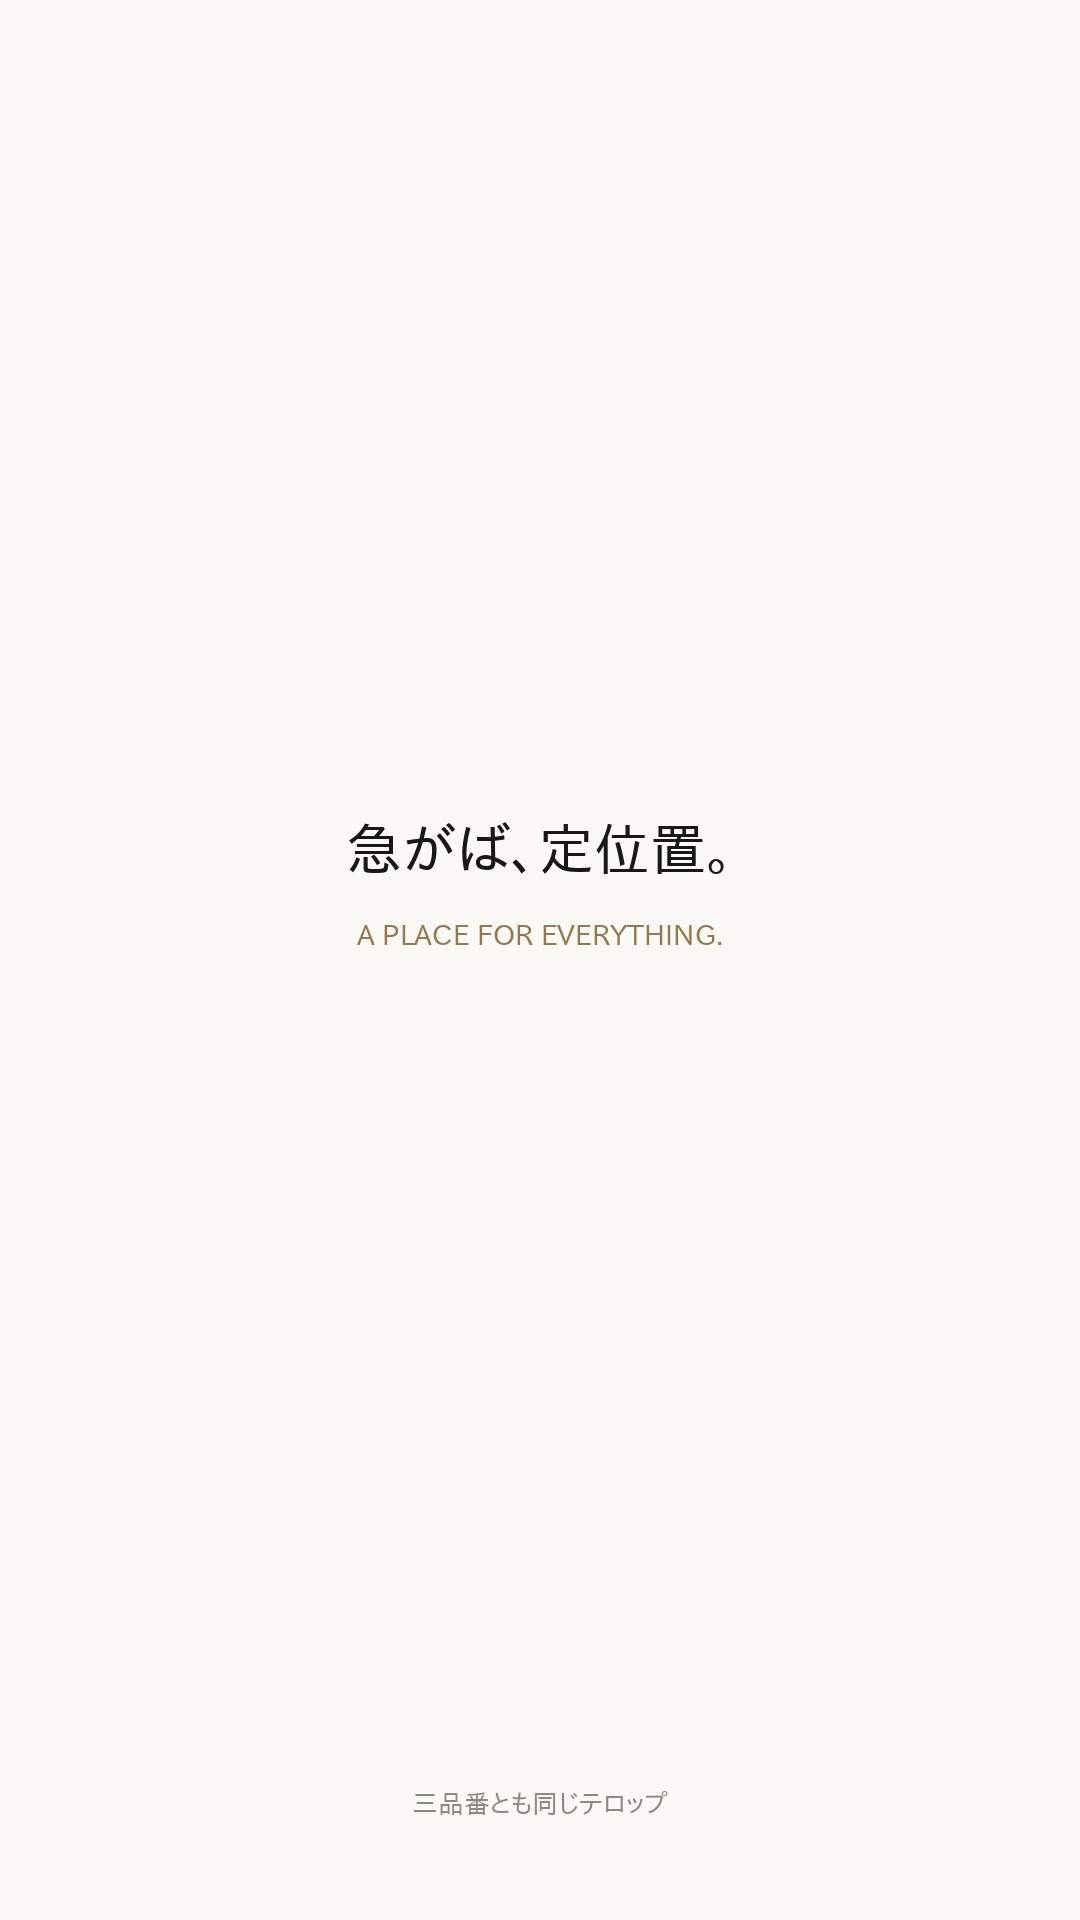
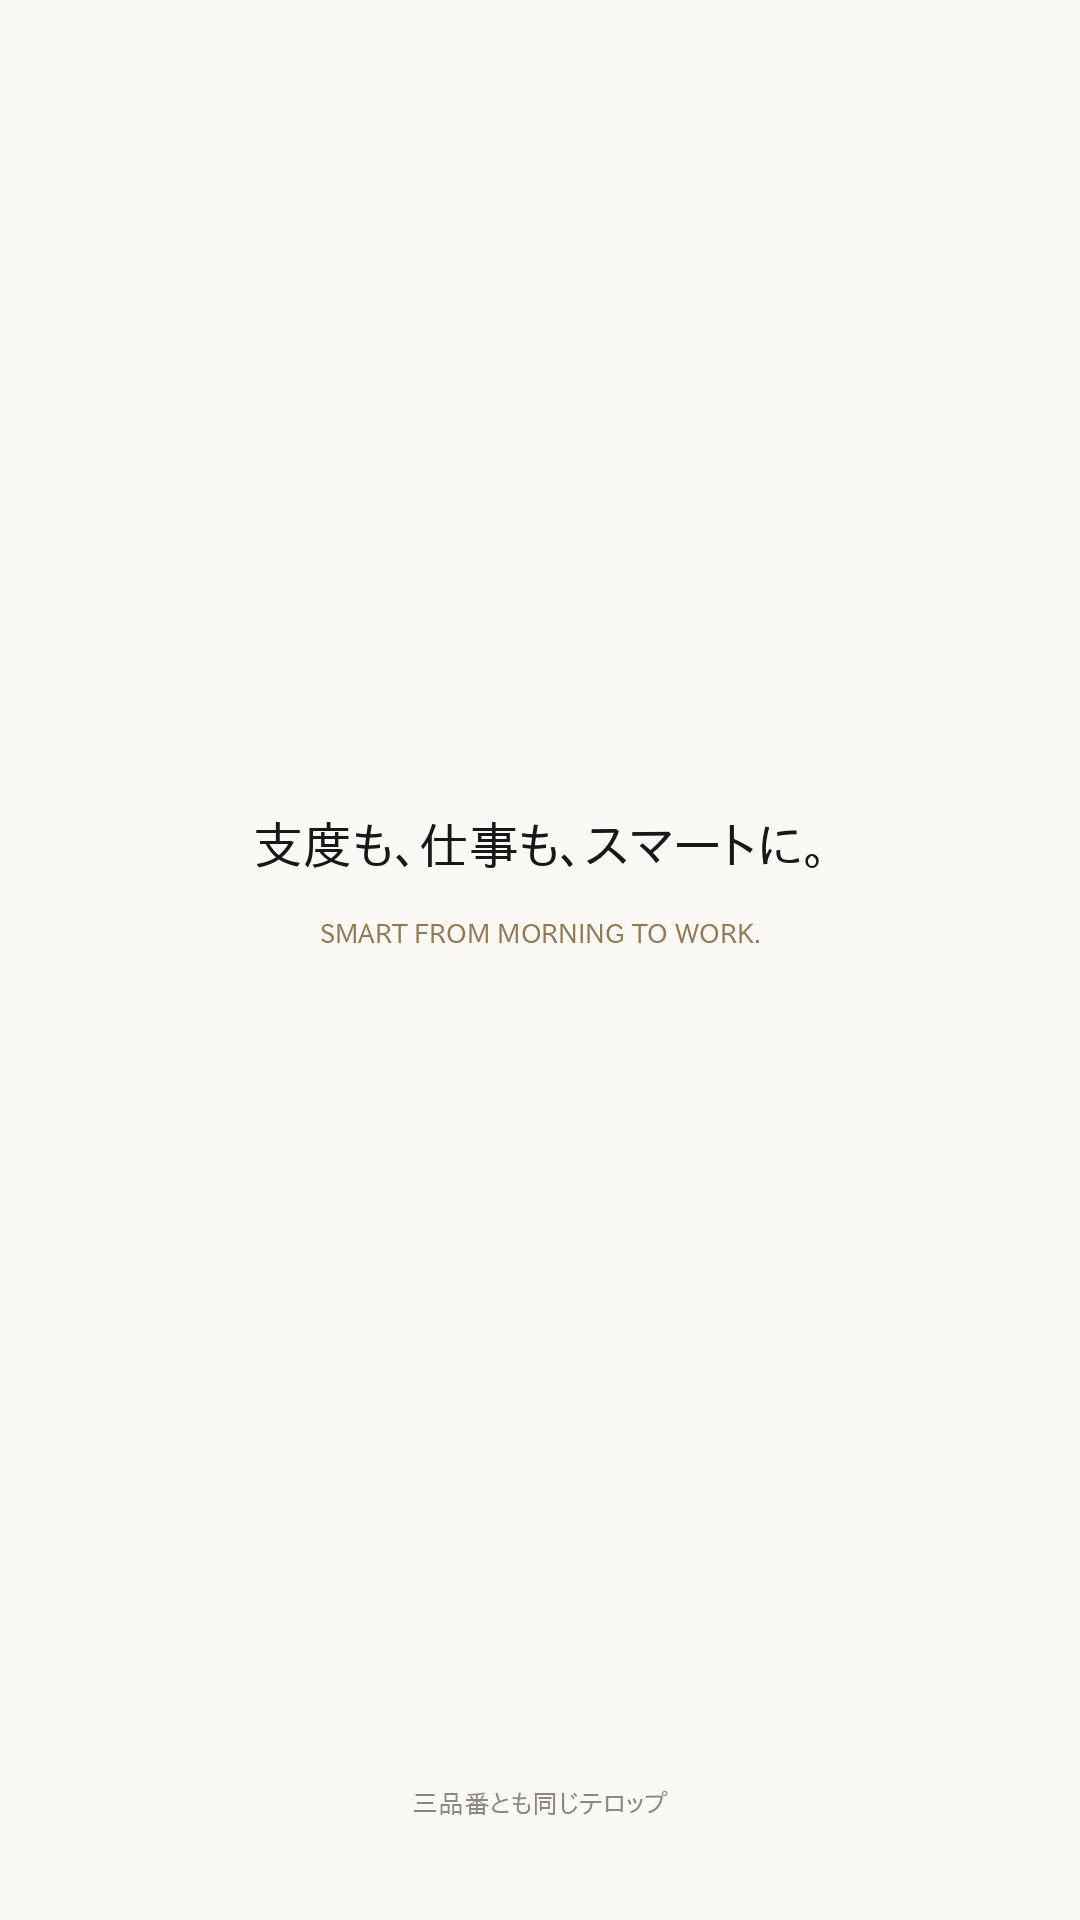
⑦のタイトルを「支度も、仕事も、スマートに。」に確定する
・目次・本文・締めのテロップを差し替え。英語は Smart from Morning to Work
・テロップのカード画像も作り直した
・これで8本すべてのタイトルが確定

Claude-Session: https://claude.ai/code/session_01WExUic6FKpEPScTy7HvD5X

Changed region(s): [[0.2444, 0.4062, 0.7333, 0.5]]

diff --git a/pdf/kakutei.html b/pdf/kakutei.html
@@ -100,7 +100,7 @@ table.grid .cap b { border-bottom:1.2px solid #e0c9a4; }
 <tr><td class="n">4</td><td class="ti"><b>持ち歩くものが、その人をつくる。</b><br><span>What You Carry Makes You</span></td><td class="ln">30秒 ×1</td><td class="tg">仕事道具として買う人・贈る人</td><td class="lk"><a href="https://www.instagram.com/reels/DcOkNyyoFFJ/">Link</a>（parisawangny）</td><td class="pg">p.6</td></tr>
 <tr><td class="n">5</td><td class="ti"><b>1979年から、東京で。</b><br><span>Since 1979, Tokyo</span></td><td class="ln">75秒 ×1／60秒短縮版 ×1</td><td class="tg">メディア関係者・OEMの調達担当・新規</td><td class="lk"><a href="https://www.youtube.com/watch?v=4DEy0CAg43s">Link</a>　＋　<a href="https://youtu.be/OU-qyAcn2YM">Link</a>　＋　<a href="https://youtu.be/OPDWrOeD-gU">Link</a>（コーポレートムービー）</td><td class="pg">p.7</td></tr>
 <tr><td class="n">6</td><td class="ti"><b>選ばれる理由。</b><br><span>Why Brands Choose Us</span></td><td class="ln">2分20秒 ×1／無音版 ×1</td><td class="tg">OEMの調達・生産担当</td><td class="lk"><span style="color:#b8ac97">参考動画：未定（工場見学ワンテイク型を推奨）</span></td><td class="pg">p.8</td></tr>
-<tr><td class="n">7</td><td class="ti"><b>急がば、定位置。</b><br><span>A Place for Everything</span></td><td class="ln">25秒 ×3品番</td><td class="tg">新規（買う直前の人）</td><td class="lk"><a href="https://www.instagram.com/reel/DZE-_hZuwXb/">Link</a>　＋　<a href="https://www.instagram.com/reel/DaorwuKvWAj/">Link</a></td><td class="pg">p.9</td></tr>
+<tr><td class="n">7</td><td class="ti"><b>支度も、仕事も、スマートに。</b><br><span>Smart from Morning to Work</span></td><td class="ln">25秒 ×3品番</td><td class="tg">新規（買う直前の人）</td><td class="lk"><a href="https://www.instagram.com/reel/DZE-_hZuwXb/">Link</a>　＋　<a href="https://www.instagram.com/reel/DaorwuKvWAj/">Link</a></td><td class="pg">p.9</td></tr>
 <tr><td class="n">8</td><td class="ti"><b>購入者インタビュー（仮タイトル）</b><br><span>Customer Interview (Title TBD)</span></td><td class="ln">60秒 ×1（仮）</td><td class="tg">購入を迷っている新規</td><td class="lk">店舗紹介インタビュー（lit DINNING BAR &amp; CAFE）　＋　撮り方の解説動画</td><td class="pg">p.10</td></tr>
   </table>
   <div class="foot">BROOKLYN MUSEUM ／ 向島工房　動画制作</div>
@@ -266,14 +266,14 @@ table.grid .cap b { border-bottom:1.2px solid #e0c9a4; }
 
 <div class="page">
   <div class="vhead">
-    <div class="l"><div class="no">07</div><h2>急がば、定位置。</h2><div class="enh">A Place for Everything</div></div>
+    <div class="l"><div class="no">07</div><h2>支度も、仕事も、スマートに。</h2><div class="enh">Smart from Morning to Work</div></div>
     <div class="r"><b>25秒 ×3品番 ／ 18ショット</b><br>対象＝新規（買う直前の人）　／　EC商品ページ カートボタン直下<br><span class="lk">参考動画＝<a href="https://www.instagram.com/reel/DZE-_hZuwXb/">Link</a>（朝の出発前）　＋　<a href="https://www.instagram.com/reel/DaorwuKvWAj/">Link</a>（ASMR実測）</span></div>
   </div>
   <div class="vbody">
     <div class="col">
       <div class="blk"><span class="lbl">企 画</span>購入転換率が0.263%。前年0.583%から半減している。写真では入る量が伝わらない。<br><br><b>白い台の上、正面固定。カメラは一度も動かさない。</b>三品番を<b>同じ画角・同じ小物</b>で撮るので、並べたときに大きさの差がそのまま分かる。冒頭三秒は<b>モノクロ</b>で入り、引いた瞬間にカラーへ。<br><br><b>秤のカットは使わない。</b>数字を読ませるかわりに、<b>片手で持ち上げる動作</b>で軽さを見せる。数字は小さくテロップで添えるだけ。</div>
       <div class="blk"><span class="lbl">こ の 1 本 で 言 う こ と</span>A4もノートPCも入って、片手で持ち上がる。三品番の大きさの差が、並べれば分かる。</div>
-      <div class="telop"><span class="lbl">テ ロ ッ プ</span><div class="jp">急がば、定位置。</div><div class="en">A PLACE FOR EVERYTHING.</div></div>
+      <div class="telop"><span class="lbl">テ ロ ッ プ</span><div class="jp">支度も、仕事も、スマートに。</div><div class="en">SMART FROM MORNING TO WORK.</div></div>
       <div class="blk"><span class="lbl">小 さ く 添 え る</span>A4・13インチPC対応　／　千百六十グラム　／　返品送料無料<br><span style='color:#8a7a63'>三品番＝ロワイヤルMトート・ベルシートート・Lジップ</span></div>
     </div>
     <table class="grid"><tr><th>シーン</th><th>ショット 1</th><th>ショット 2</th><th>ショット 3</th></tr>
@@ -282,7 +282,7 @@ table.grid .cap b { border-bottom:1.2px solid #e0c9a4; }
 <tr><td class="sc"><b>S3 入れる①</b><br>7-13秒</td><td><img src="../assets/ref4/7_S3_01_PCを入れる.jpg"><div class="cap">A4書類とノートPCを入れる</div></td><td><img src="../assets/ref4/7_S3_02_入りきる.jpg"><div class="cap">入りきる。上端にまだ余りがあるのを見せる</div></td><td><img src="../assets/ref4/7_S3_03_手帳と小物を入れる.jpg"><div class="cap">手帳・鍵・サングラス。<b>顔は入れない</b></div></td></tr>
 <tr><td class="sc"><b>S4 入れる②</b><br>13-17秒</td><td><img src="../assets/ref4/7_S4_01_さらに入れる.jpg"><div class="cap">ペン・小物。入れる音を一つずつ拾う</div></td><td><img src="../assets/ref4/7_S4_02_小物を入れる.jpg"><div class="cap">傘・水筒まで入れる。それでもまだ閉まる</div></td><td><img src="../assets/ref4/7_S4_03_最後の一つを入れる.jpg"><div class="cap">最後の一つを入れる。ここで手が止まる</div></td></tr>
 <tr><td class="sc"><b>S5 持ち上げる</b><br>17-21秒</td><td><img src="../assets/ref4/7_S5_01_片手で持ち上げる.jpg"><div class="cap"><b>片手で持ち上げる。</b>軽さを動作で見せる</div></td><td><img src="../assets/ref4/7_S5_02_ハンドルを持つ.jpg"><div class="cap">肩にかける。台は動かさない</div></td><td><img src="../assets/ref4/7_S5_03_数字テロップ.jpg"><div class="cap">数字を小さくテロップで添える（千百六十グラム）</div></td></tr>
-<tr><td class="sc"><b>S6 残る</b><br>21-25秒</td><td><img src="../assets/ref4/7_S6_01_鞄だけが残る.jpg"><div class="cap">人がフレームから出る。<b>鞄だけが残る</b></div></td><td><img src="../assets/ref4/7_S6_02_テロップ.jpg"><div class="cap">テロップ「急がば、定位置。」</div></td><td><img src="../assets/ref4/共通_ロゴのみ.jpg"><div class="cap">ロゴ。<b>三品番とも同じ終わり方にする</b></div></td></tr>
+<tr><td class="sc"><b>S6 残る</b><br>21-25秒</td><td><img src="../assets/ref4/7_S6_01_鞄だけが残る.jpg"><div class="cap">人がフレームから出る。<b>鞄だけが残る</b></div></td><td><img src="../assets/ref4/7_S6_02_テロップ.jpg"><div class="cap">テロップ「支度も、仕事も、スマートに。」</div></td><td><img src="../assets/ref4/共通_ロゴのみ.jpg"><div class="cap">ロゴ。<b>三品番とも同じ終わり方にする</b></div></td></tr>
 </table>
   </div>
   <div class="foot">BROOKLYN MUSEUM ／ 向島工房　動画制作</div>

diff --git a/tools/data_pdf.py b/tools/data_pdf.py
@@ -38,7 +38,7 @@ TOC = [
  {"n":"6","jp":"選ばれる理由。","en":"Why Brands Choose Us","len":"2分20秒 ×1／無音版 ×1","target":"OEMの調達・生産担当",
   "ref_html":'<span style="color:#b8ac97">参考動画：未定（工場見学ワンテイク型を推奨）</span>',
   "ref_url":"", "ref_text":"参考動画：未定（工場見学ワンテイク型を推奨）","pg":"8"},
- {"n":"7","jp":"急がば、定位置。","en":"A Place for Everything","len":"25秒 ×3品番","target":"新規（買う直前の人）",
+ {"n":"7","jp":"支度も、仕事も、スマートに。","en":"Smart from Morning to Work","len":"25秒 ×3品番","target":"新規（買う直前の人）",
   "ref_html":'<a href="https://www.instagram.com/reel/DZE-_hZuwXb/">Link</a>　＋　<a href="https://www.instagram.com/reel/DaorwuKvWAj/">Link</a>',
   "ref_url":"https://www.instagram.com/reel/DZE-_hZuwXb/", "ref_text":"instagram.com/reel/DZE-_hZuwXb ＋ instagram.com/reel/DaorwuKvWAj","pg":"9"},
  {"n":"8","jp":"購入者インタビュー（仮タイトル）","en":"Customer Interview (Title TBD)","len":"60秒 ×1（仮）","target":"購入を迷っている新規",
@@ -341,13 +341,13 @@ PAGES = [
    ]),
   ], pn=8, total=T),
 
- dict(no="07", jp="急がば、定位置。", en="A Place for Everything",
+ dict(no="07", jp="支度も、仕事も、スマートに。", en="Smart from Morning to Work",
   meta_len="25秒 ×3品番 ／ 18ショット", meta_target="対象＝新規（買う直前の人）　／　EC商品ページ カートボタン直下",
   ref='参考動画＝<a href="https://www.instagram.com/reel/DZE-_hZuwXb/">Link</a>（朝の出発前）　＋　<a href="https://www.instagram.com/reel/DaorwuKvWAj/">Link</a>（ASMR実測）',
   ref_detail="Instagramリール2本／selentether_japan「CARRY YOUR PASSION」。<b>約65秒</b>。白背景・正面固定のまま鞄に物を入れていく。冒頭はモノクロ。",
   plan="購入転換率が0.263%。前年0.583%から半減している。写真では入る量が伝わらない。<br><br><b>白い台の上、正面固定。カメラは一度も動かさない。</b>三品番を<b>同じ画角・同じ小物</b>で撮るので、並べたときに大きさの差がそのまま分かる。冒頭三秒は<b>モノクロ</b>で入り、引いた瞬間にカラーへ。<br><br><b>秤のカットは使わない。</b>数字を読ませるかわりに、<b>片手で持ち上げる動作</b>で軽さを見せる。数字は小さくテロップで添えるだけ。",
   says="A4もノートPCも入って、片手で持ち上がる。三品番の大きさの差が、並べれば分かる。",
-  telop_jp="急がば、定位置。", telop_en="A PLACE FOR EVERYTHING.",
+  telop_jp="支度も、仕事も、スマートに。", telop_en="SMART FROM MORNING TO WORK.",
   extra=("小 さ く 添 え る","A4・13インチPC対応　／　千百六十グラム　／　返品送料無料<br><span style='color:#8a7a63'>三品番＝ロワイヤルMトート・ベルシートート・Lジップ</span>"),
   rows=[
    ("S1 質感","0-4秒",[
@@ -377,7 +377,7 @@ PAGES = [
    ]),
    ("S6 残る","21-25秒",[
      ("7_S6_01_鞄だけが残る","人がフレームから出る。<b>鞄だけが残る</b>"),
-     ("7_S6_02_テロップ","テロップ「急がば、定位置。」"),
+     ("7_S6_02_テロップ","テロップ「支度も、仕事も、スマートに。」"),
      ("共通_ロゴのみ","ロゴ。<b>三品番とも同じ終わり方にする</b>"),
    ]),
   ], pn=9, total=T),
